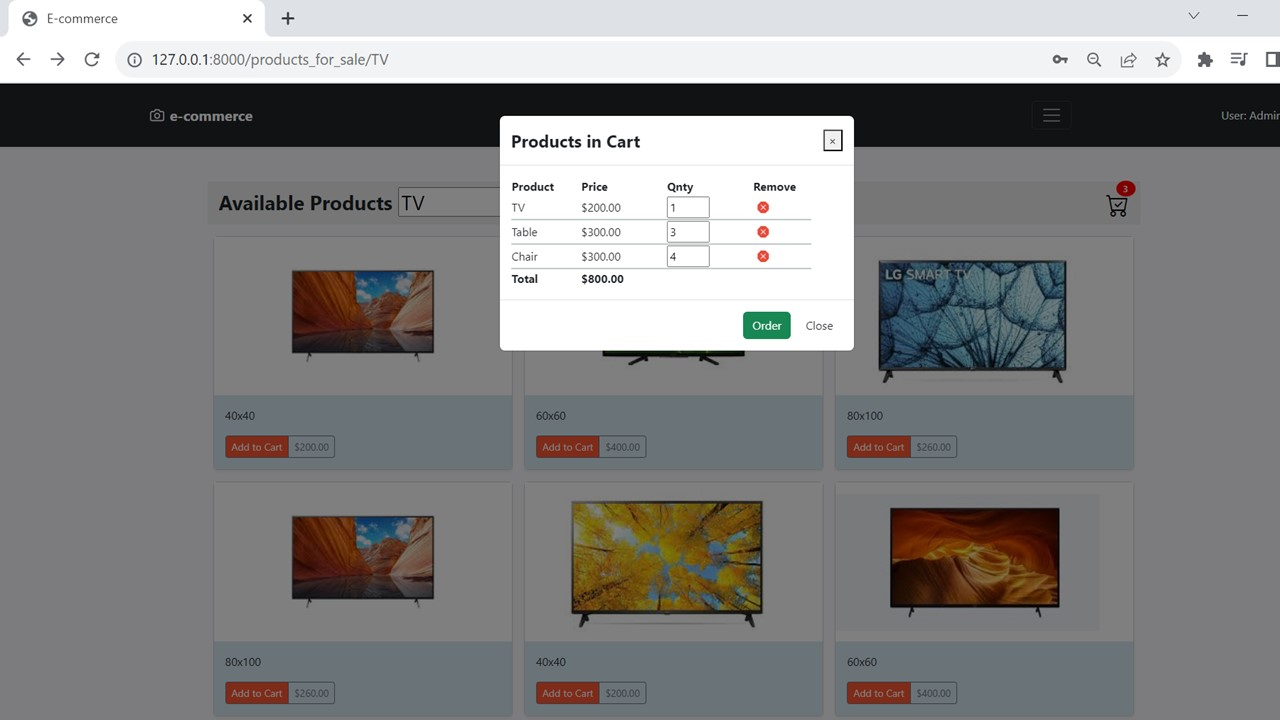
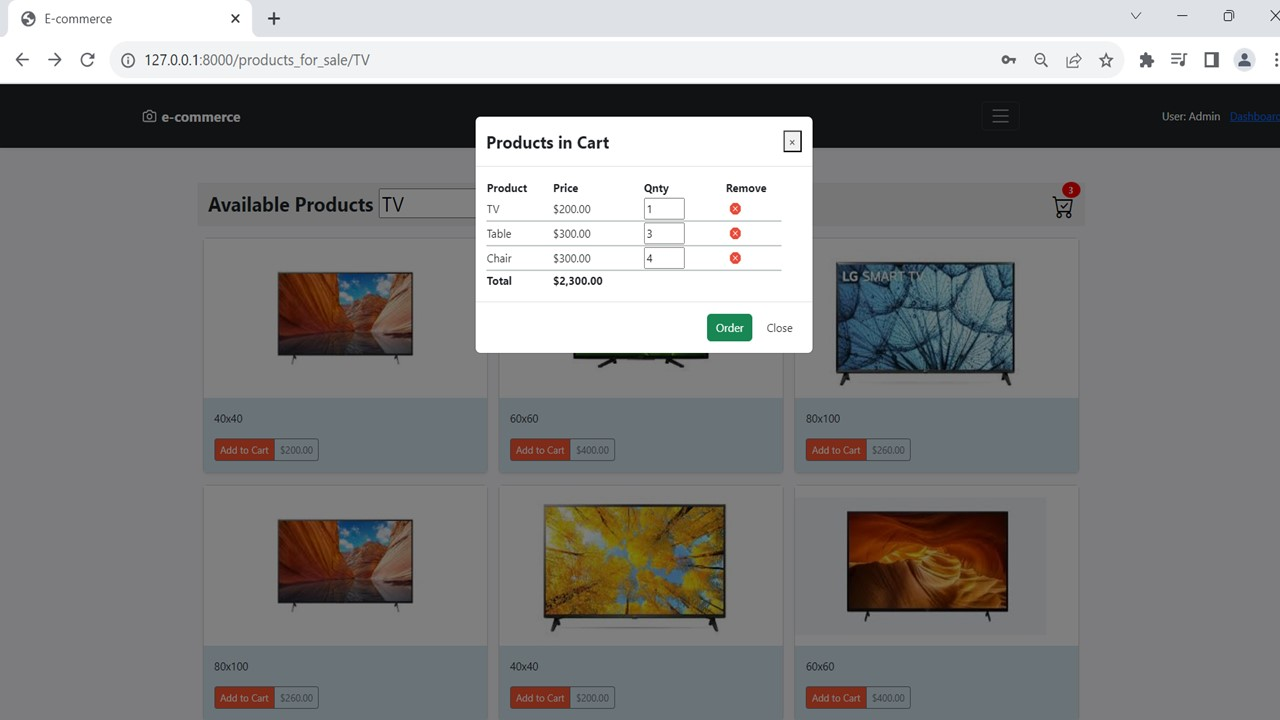
Minor update made

diff --git a/resources/views/products_for_sale.blade.php b/resources/views/products_for_sale.blade.php
@@ -281,7 +281,7 @@
         Products_in_Cart(newVal, oldVal) {
             this.total_price_to_pay = this.format_to_money_style(this.Products_in_Cart.reduce(
                 (currentTotal, item) => {
-                return Number(item.price) + Number(currentTotal)
+                return Number(item.price * item.qnty) + Number(currentTotal)
                 }, 0))
         },
         async selected_category(newVal, oldVal) {
